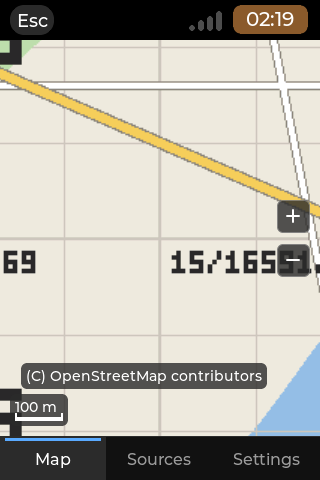
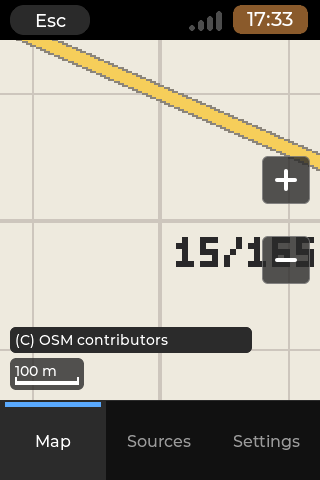
deck-atlas 0.2.0: version, README, board tests, screenshots
Version 0.2.0 in app.json, kVersion (and so the tile User-Agent), test_package and the READMEs. README: the GPS section
(receivers, listen-only, Auto port and speed, the chip, the dot, follow and its keys, the position.state format and path,
privacy), the GPS rows in Settings and the keys table, requirements (dialout), known limits, changes, roadmap. BOARD-TESTS:
a GPS list (puck on a board, cold start, fix, follow, unplug / replug, wrong speed, a port held by another app,
position.state, memory and power, privacy). New synthetic screenshots of the GPS states; the 320x480 map and Settings
shots refreshed. registry.json, registry-amd64.json and packages/ are untouched (publishing follows a board test).

Claude-Session: https://claude.ai/code/session_01DZirtLRRFpxSjax5Qp5ZSW

diff --git a/apps/deck-atlas/tests/test_package.cpp b/apps/deck-atlas/tests/test_package.cpp
@@ -31,7 +31,7 @@ void test_package()
     const std::string hpp = test_read_file(app + "/src/ui/atlas_app.hpp");
     CHECK(has(hpp, "kMinW = 480, kMinH = 320"));
     CHECK(has(hpp, "kPortraitW = 320, kPortraitH = 480"));
-    CHECK(has(hpp, "kVersion = \"0.1.0\""));
+    CHECK(has(hpp, "kVersion = \"0.2.0\""));
     const std::string icon = test_read_file(app + "/root/usr/share/APPLaunch/share/images/deck-atlas.png");
     CHECK(!icon.empty());
     CHECK(icon == test_read_file(app + "/icon.png"));
@@ -41,7 +41,7 @@ void test_package()
     const std::string manifest = test_read_file(app + "/app.json");
     CHECK(has(manifest, "\"share_code\": \"deck-atlas\""));
     CHECK(has(manifest, "\"package\": \"deck-atlas\""));
-    CHECK(has(manifest, "\"version\": \"0.1.0\""));
+    CHECK(has(manifest, "\"version\": \"0.2.0\""));
     CHECK(has(manifest, "\"title\": \"Deck Atlas\""));
     CHECK(has(manifest, "\"license\": \"MIT\""));
     CHECK(has(manifest, "\"arch\": [\"arm64\", \"amd64\"]"));

diff --git a/apps/deck-atlas/src/ui/atlas_app.hpp b/apps/deck-atlas/src/ui/atlas_app.hpp
@@ -50,7 +50,7 @@ namespace atlasui {
 /* = X-MinSize / X-Portrait of root/usr/share/APPLaunch/applications/deck-atlas.desktop (tests/test_package.cpp) */
 constexpr int kMinW = 480, kMinH = 320;
 constexpr int kPortraitW = 320, kPortraitH = 480;
-constexpr const char *kVersion = "0.1.0";
+constexpr const char *kVersion = "0.2.0";
 
 enum class Tab { Map = 0, Sources, Settings };
 enum class Sub { None, FileDetail, Browser, Import, Key, Shown, About };

diff --git a/apps/deck-atlas/README.md b/apps/deck-atlas/README.md
@@ -4,10 +4,11 @@ An offline map viewer for the cyberdeck, by touch or keyboard: import your own m
 `z/x/y` tile folder from a tile downloader, converted on the board into one MBTiles file) from the SD card or a USB
 stick, then pan and zoom without any network. Three online tile sources come with the map engine, all **off** until you
 switch them on (OpenTopoMap, and Thunderforest and Geoapify with your own free key); the tiles you looked at stay on the
-SD card. Version **0.1.0**, category Tools. Native fullscreen app (kind A of
+SD card. Version **0.2.0**, category Tools. Native fullscreen app (kind A of
 the guidelines: it has its own pages, lists and forms) on the launcher's `cp0_lvgl` with its **map engine**
-(`cp0_map.h`, switched on for this app only), MIT. The GPS (a position dot, follow mode, `position.state`) comes in the
-next version; places and tracks after that.
+(`cp0_map.h`, switched on for this app only), MIT. Version 0.2.0 adds the **GPS**: a USB receiver's position as a dot on the map, follow mode and
+`position.state` for other apps (off until you switch it on in Settings; listen-only, and the position never leaves the
+deck). Places and tracks come after that.
 
 ## Screenshots
 
@@ -24,6 +25,19 @@ coastline; generated by `tests/tools/gen_fixture_tiles.py`, no real map data):
 | Settings tab | zero8's 3.5" 480x320 panel (6.3 px/mm: 1.5x) |
 
 The Store shows `screenshots/` (640x480, 480x320, 320x480 and 480x800).
+
+The GPS (0.2.0), over a synthetic feed (an invented position inside the test tiles' area):
+
+| | |
+| --- | --- |
+| ![3D fix](screenshots/12-gps-3d-640x480.png) | ![Searching](screenshots/18-gps-searching-640x480.png) |
+| 3D fix, nine satellites, accuracy ring; follow button under the zoom buttons | Receiver talking, no fix yet: "Searching", no dot |
+| ![Moving](screenshots/13-gps-moving-480x320.png) | ![2D](screenshots/16-gps-2d-480x320.png) |
+| Moving: heading wedge, speed; the follow button left of the zoom-out button on the 200 px high 480x320 map | 2D fix: a wider ring |
+| ![Follow](screenshots/14-gps-follow-320x480.png) | ![Stale](screenshots/15-gps-stale-320x480.png) |
+| Follow on (button highlighted), the dot kept in the middle | Stale (no fix for 5 s): hollow dot, "Last fix 7 s ago" |
+| ![Settings](screenshots/17-settings-gps-320x480.png) | ![Credit](screenshots/19-credit-320x480.png) |
+| Settings > GPS receiver | OpenTopoMap's credit shown whole on 320x480 |
 
 ## What it does
 
@@ -65,13 +79,14 @@ Three tabs, switched by the strip at the bottom (or Tab / Shift+Tab):
 - **Settings.** Units (km / mi), Display scale (Auto / 1x / 1.5x / 2x; Auto shows what it chose), Offline mode (no
   tile request at all), Cache size (Auto / 128 MB / 256 MB / 512 MB / 1 GB: the cap of the saved online tiles; Auto is
   the smaller of 512 MB and 10 % of the free space), Clear saved tiles (asks first; imported files are never touched),
-  the saved tiles now, and About: the version, the attribution of the map shown and of every source, the credits.
+  the saved tiles now, the GPS receiver group (GPS, Port, Speed: see GPS below), and About: the version, the attribution of the map shown and of every source, the credits.
 
 ### Keys and touch
 
 | Function | Keys | Touch |
 | --- | --- | --- |
 | Switch tabs | Tab, Shift+Tab | the tab strip |
+| Follow the GPS position (GPS on) | G (on / off), Home (on, recentre) | the crosshair button under the zoom buttons |
 | Pan | arrows (Shift: half a view); the deck's F / X / Z / C aliases | drag |
 | Zoom in / out | + (=, keypad +) or Page Up / - (keypad -) or Page Down | the + / - buttons, a double tap (in) |
 | Move in a list, open, act | Up / Down, Enter or Right | a tap selects a row, a tap on the selected row acts |
@@ -84,6 +99,43 @@ Three tabs, switched by the strip at the bottom (or Tab / Shift+Tab):
 Every list row carries its marker (the launcher's row rule): a chevron on rows that open a page or change a value,
 a dot on rows that act (Show on map, Remove, Import this tile folder, an archive, Clear saved tiles; blue while the
 clearing runs), none on information rows.
+
+## GPS (0.2.0)
+
+Settings > **GPS receiver** has three rows: **GPS** (Off, the default; Auto), **Port** (Auto, or one of the serial ports
+present, `/dev/ttyACM*` and `/dev/ttyUSB*`, one tap for the next) and **Speed** (Auto, 9600, 4800, 38400, 115200). With
+GPS Off the app opens no port at all and the Map tab is exactly what 0.1.0 drew.
+
+- **Listen-only.** The reader only reads NMEA 0183 sentences (`$GP`, `$GN`, `$GL`, `$GA`... `RMC`, `GGA`, `GSA`, `GSV`). It
+  opens the device read-only and never sends anything (no UBX or NMEA command, nothing to switch on or configure); the
+  package test checks that no source of the reader contains a send call. Every sentence needs a valid `*HH` checksum.
+  (The kernel raises DTR when any program opens a serial port; some microcontroller boards reset on that. Auto skips
+  ports another app holds, and tries a u-blox first; choose the Port yourself if the deck has other serial boards on it.)
+- **Finding the receiver.** Auto looks at the ports every 2 s: a u-blox (USB 1546) first, then ports named like a GPS,
+  then `ttyACM*`, then `ttyUSB*`. A port is the receiver when two valid sentences arrive; Auto speed listens 2.5 s each at the
+  speed that worked last, 9600, 4800, 38400 and 115200. A port that is busy (another app has it), denied or silent is left
+  alone for 2, 4, 8, 15, then 30 s. Plugging in or pulling out is noticed while the app runs; a receiver that goes silent for
+  10 s is found again when it talks. Nothing blocks the screen: the reader runs inside the app's 100 ms timer.
+- **On the map.** With a fix: a filled blue dot with a white outline, a translucent accuracy ring (HDOP x 5 m, 3 to 100 m,
+  drawn when wider than the dot) and, above 1 m/s with a known course, a heading wedge. No valid fix sentence for 5 s: a
+  **hollow** dot, no ring. No fix yet: no dot. The **status chip** under the map's top edge says "No GPS device", "No access
+  to GPS port" (the `dialout` group), "Searching", "2D fix", "3D fix 9 sats" or "Last fix 12 s ago", with the speed
+  ("19 km/h", "12 mph" with miles) when moving.
+- **Follow.** The crosshair button below the zoom buttons (or **G**; **Home** turns it on and recentres): the map keeps the
+  position at its centre on every fix, at the zoom it has. A pan (drag, arrow key, double tap away from the centre) turns
+  it off; zooming does not. The button is highlighted while follow is on. Off by default.
+- **position.state.** While the GPS is on, the app writes the deck's position for other apps to the launcher's state folder
+  (`$APPLAUNCH_STATE_DIR`, else `$XDG_RUNTIME_DIR/applaunch/`, next to `status.state`; report 054 section 6.3), atomically
+  (temporary file, rename), at most once a second, only when it changed. Keys (key=value, unknown keys are ignored, an absent
+  key means unknown): `v=1`, `gen`, `pid` (believe the file only while it is alive), `writer=deck-atlas`, `fix` (0 none, 2 2D,
+  3 3D), `lat`, `lon`, `alt_m`, `speed_mps`, `course_deg`, `acc_m`, `hdop`, `sats_used`, `sats_view`, `utc` (the receiver's
+  time of the fix), `mono_ms` (CLOCK_MONOTONIC at the fix: the age without trusting the wall clock), `source` (`usb:1546:01a8`
+  or `serial:ttyUSB0`). No fix, a lost receiver or a stale fix writes `fix=0` with no position; switching the GPS off or
+  leaving the app removes the file.
+- **Privacy.** The position is never sent anywhere by the app: it is drawn on the screen and written to `position.state` on
+  this deck. The GPS adds no network use; the online sources keep the rules above.
+- **Not in this version:** setting the system clock from the receiver (later, as an offer with a sudo prompt), tracks, a GPS
+  page with the satellites, recording while the app is hidden.
 
 ## Map files: where they come from
 
@@ -103,7 +155,7 @@ import page and the record of each file say so. Deck Atlas never downloads areas
 - The OpenStreetMap Foundation's tile servers are **never** used: there is no OSM source, and the engine refuses any
   `openstreetmap.org` / `osm.org` address, in a record or a redirect.
 - All three sources are off by default. Only the tiles you look at are requested, never the tiles around the view.
-- A request carries the tile's z/x/y and the app's User-Agent `deck-atlas/0.1.0 (+https://github.com/OSRdesign/cyberdeck-zero-apps)`,
+- A request carries the tile's z/x/y and the app's User-Agent `deck-atlas/0.2.0 (+https://github.com/OSRdesign/cyberdeck-zero-apps)`,
   plus your key for a keyed source; nothing else. The provider sees your IP address.
 - Keys are kept by the engine in `~/.local/share/cyberdeckzero/maps/sources/<id>.key`, mode 0600, never logged and
   never shown again (the page says *Key saved*); never in `settings.conf`.
@@ -122,19 +174,21 @@ import page and the record of each file say so. Deck Atlas never downloads areas
   plus the base `libfreetype6, libinput10, libxkbcommon0`.
 - A launcher with fullscreen app support (contract 1); built against launcher `28817a5` (the map engine with its first fixes).
 - Network only for the online sources, and only when you switch one on.
-- No GPS in this version.
+- For the GPS (optional): a USB receiver that sends NMEA 0183 (a u-blox puck, a SiRF or any "GPS mouse"), and your user in
+  the `dialout` group (`sudo usermod -aG dialout $USER`, then log in again) to open `/dev/ttyACM*` / `/dev/ttyUSB*`.
 
 ## Install
 
 Settings > Apps > Available > Deck Atlas (category Tools), or by hand:
-`sudo dpkg -i deck-atlas_0.1.0_arm64.deb` (`_amd64` on an x86-64 PC), then `sudo apt-get -f install` if a dependency is
+`sudo dpkg -i deck-atlas_0.2.0_arm64.deb` (`_amd64` on an x86-64 PC), then `sudo apt-get -f install` if a dependency is
 missing. Remove with `sudo dpkg -r deck-atlas` (your maps and settings stay).
 
 ## Files the app keeps
 
 | Path | What |
 | --- | --- |
-| `~/.config/deck-atlas/settings.conf` | units, display scale, cache size, offline mode, what the map shows, the last view, the sources whose terms you accepted (key=value lines, written atomically, mode 0600) |
+| `~/.config/deck-atlas/settings.conf` | units, display scale, cache size, offline mode, what the map shows, the last view, the sources whose terms you accepted, the GPS rows (only when changed from Off / Auto / Auto) (key=value lines, written atomically, mode 0600) |
+| `$APPLAUNCH_STATE_DIR/position.state` | the deck's position for other apps, while the GPS is on (above); removed at exit |
 | `~/.local/share/cyberdeckzero/maps/` | the shared map store of the engine (any app may read it; Mesh Hop will): `archives/` (imported files and their records), `tiles/` (the saved online tiles, one MBTiles per source, within the cache cap), `sources/` (your switches and keys), `state/` (daily counts and pauses) |
 
 Reset: delete `~/.config/deck-atlas` (settings) and `~/.local/share/cyberdeckzero/maps` (every map, key and saved tile).
@@ -142,7 +196,8 @@ Reset: delete `~/.config/deck-atlas` (settings) and `~/.local/share/cyberdeckzer
 ## Multitasking
 
 None (no `X-Background`): this version does not answer the launcher's lifecycle protocol, so it owns the panel until it
-exits. The next version (the GPS reader and `position.state`) is planned with `X-Background=run` (report 054 7.4).
+exits. So the GPS reader and `position.state` work only while Deck Atlas is in front; `X-Background=run` (report 054 7.4)
+comes with the recording of tracks.
 
 ## Known limits
 
@@ -156,7 +211,7 @@ exits. The next version (the GPS reader and `position.state`) is planned with `X
   length, and 2x is the engine's largest scale (the one over-zoom level magnifies further, blurred). Keep Auto; zoom
   15 is the first level with street names, 16-17 for house numbers. Sharper text on the deck needs 512 px ("@2x")
   tiles in the imported file (the engine draws them 1:1 at 2x) or the vector rendering of a later phase.
-- No GPS, places or tracks yet; no area download (the engine's phase 0.2, Geoapify only).
+- No places or tracks yet; no area download (the engine's phase 0.2, Geoapify only).
 - One source on the map at a time (all files, one file, or one online source); no overlay of an online source over a
   file.
 - Vector tiles (pbf), WebP and brotli / zstd PMTiles directories are refused (raster first).
@@ -202,7 +257,7 @@ The binary links the cp0_lvgl runtime of the CardputerZero launcher by M5Stack (
 ## Build and test
 
 ```sh
-wsl -e sh apps/deck-atlas/build.sh host                 # unit tests (399 checks) and 12 scenes (sheets in ~/cdk-build/deck-atlas/host/out/sheets)
+wsl -e sh apps/deck-atlas/build.sh host                 # unit tests (1,912 checks) and 22 scenes (sheets in ~/cdk-build/deck-atlas/host/out/sheets)
 wsl -e sh apps/deck-atlas/build.sh cross                # the arm64 binary into root/
 wsl -e sh apps/deck-atlas/build.sh cross --arch amd64   # the amd64 binary into root.amd64/
 python3 tools/make_registry.py --only deck-atlas --out <dir>            # a local arm64 .deb, no registry
@@ -212,6 +267,10 @@ python3 tools/make_registry.py --only deck-atlas --arch amd64 --out <dir>
 - **The map engine for this app only.** `cp0_config.mk` holds `CONFIG_CP0_LVGL_MAP=y`; `apps/_common/build_app.sh`
   appends it to this app's scratch configuration and `apps/_common/headless/Makefile` includes it (the
   [`_common` README](../_common/README.md#toolkit-switches-of-one-app-cp0_configmk)); no other app changes.
+- **GPS in the scenes.** `DECKATLAS_GPS=auto|off` switches the GPS on or off; `DECKATLAS_GPS_FEED=<name>` plays
+  `tests/gps-feeds/<name>.nmea` through a fake port (demonstration mode only; without it there is no device). The feeds
+  (searching, fix2d, fix3d, moving, follow, stale, noise) are made at build time by `tests/tools/gen_nmea.py` around an
+  invented point in the fixture tiles' area, with valid checksums; no recording, never packaged or committed.
 - **Demonstration mode** (the scenes; never on a board): `DECKATLAS_DEMO=1` keeps the settings and the store under the
   harness's runtime folder, converts the generated `tests/fixtures/tiles` with the engine's own import at the start, and forces the
   network off. `DECKATLAS_DEMO=empty` starts with nothing; `DECKATLAS_DEMO=import-hold` replaces the import with a
@@ -231,13 +290,18 @@ python3 tools/make_registry.py --only deck-atlas --arch amd64 --out <dir>
 
 ## Changes
 
+- **0.2.0** (2026-11-07): the GPS reader (NMEA 0183, listen-only, Auto port and speed, hot-plug), the position dot with
+  its accuracy ring, heading wedge and hollow stale state, the status chip, follow mode (button below the zoom buttons,
+  G / Home keys, a pan turns it off), Settings > GPS receiver (GPS, Port, Speed), `position.state` for other apps; the map
+  credit is shown whole on narrow screens (abbreviated, wrapped) instead of being cut with "...".
+
 - **0.1.0** (2026-11-07): first version. Map, Sources and Settings tabs; MBTiles, PMTiles and tile-folder
   imports with progress and cancel; the engine's three online sources off by default, with the key page and the terms
   dialog; the persistent viewing cache with its cap and clearing; offline mode; 480x320 and up, 320x480 in PDA mode.
 
 ## Roadmap
 
-1. **GPS** (next): the receiver on USB, the position dot (the widget's `cp0_map_set_position()` is wired and kept empty
-   in this version), follow mode, `position.state` for other apps, `X-Background=run`.
+1. **GPS, next steps**: set the system clock from the receiver (an offer with a sudo prompt, never automatic), the GPS page
+   (satellites in view, DOP, the receiver's name), `X-Background=run` for recording.
 2. Places and tracks (record, list, show, GPX export); the area download (Geoapify).
 3. Mesh Hop shows its nodes on the same engine and store (read-only, report 054 6.2).

diff --git a/apps/deck-atlas/tests/BOARD-TESTS.md b/apps/deck-atlas/tests/BOARD-TESTS.md
@@ -2,12 +2,12 @@
 
 For the owner (controller-led testing: Claude deploys and reads the logs, you do the physical steps). The models
 (settings, labels, the import progress, the online sources' flow, the file browser, the map geometry, the package files)
-are tested on the PC (`build.sh host`: 399 checks), and twelve scenes draw every page at 640x480, 480x320, 320x480 and
+are tested on the PC (`build.sh host`: 1,912 checks), and 22 scenes draw every page at 640x480, 480x320, 320x480 and
 480x800 (plus the zero8 density). What the PC cannot tell: **whether the map is readable on the glass**, how a real
 import feels on a Zero 2 W's SD card, the memory use, and the network path. Keep it short: the main path must work.
 
 Boards: the deck (640x480, 11.3 px/mm), zero8 (480x320 3.5", 6.3 px/mm; 320x480 with PDA mode on), and the FZ-M1 tablet
-for the amd64 package. Install the `.deb` from the bundle (`sudo dpkg -i deck-atlas_0.1.0_arm64.deb`); it pulls
+for the amd64 package. Install the `.deb` from the bundle (`sudo dpkg -i deck-atlas_0.2.0_arm64.deb`); it pulls
 `libsqlite3-0`, `libcurl4t64` and `ca-certificates`.
 
 Before: copy the tile folder (MapTileDl's `tiles`, about 276 MB) to the board, e.g. `scp -r tiles deck@zero7.local:Maps/`,
@@ -18,7 +18,7 @@ or put it on a USB stick.
 1. Open Deck Atlas from the home grid. The launcher's header (Esc, title "Deck Atlas", status strip), the tab strip at
    the bottom (Map, Sources, Settings, Map underlined in blue). With an empty store: a grey world grid and the plate
    "No map yet. Import a map file in Sources."
-2. Log: `journalctl --user -u <launcher service> | grep deck-atlas` shows `[deck-atlas] 0.1.0 640x480 scale Auto (2x),
+2. Log: `journalctl --user -u <launcher service> | grep deck-atlas` shows `[deck-atlas] 0.2.0 640x480 scale Auto (2x),
    store /home/<user>/.local/share/cyberdeckzero/maps, 0 map files, network on`.
 
 ## T1. Import the tile folder (3 min, the deck first, then zero8)
@@ -64,11 +64,47 @@ At arm's length, at zoom 15 and zoom 17:
 4. Started over ssh without the launcher (`/usr/share/APPLaunch/bin/deck-atlas` on the console of the deck): the app
    comes up and logs one line about the missing contract.
 
-## T5. What to tell me
+## T5. GPS (0.2.0; 15 minutes, outdoors or at a window, the u-blox puck on the deck and then on zero8)
+
+The PC tests cover the parser, the fix logic, the baud sniff on a fake port and on a pseudo-terminal, follow mode and the
+`position.state` writer, and eight scenes draw every state at 640x480, 480x320 and 320x480. What only a board can tell: the
+real puck, the cold start, power, memory.
+
+1. **Off is quiet.** GPS Off (the default): the Map tab has no chip and no follow button; `ls -l /proc/$(pgrep -x deck-atlas)/fd`
+   shows no `/dev/tty*`. Settings > GPS receiver shows GPS Off, Port Auto, Speed Auto.
+2. **Plug the puck, GPS Auto** (Settings > GPS receiver > GPS). `lsusb` and `ls /dev/ttyACM* /dev/ttyUSB*`: note which node it
+   is and the USB id (u-blox 1546:01a7/01a8/01a9). If the chip says "No access to GPS port": `groups` must list `dialout`
+   (`sudo usermod -aG dialout $USER`, log in again). The log (`[deck-atlas] gps: ...`) says which port and speed it locked at.
+3. **Cold start.** Put the puck where it sees the sky. Note the time from plugging to "Searching", then "2D fix"/"3D fix N
+   sats" (a cold start takes minutes; the chip must say "Searching" meanwhile, and no dot appears before a fix).
+4. **The dot.** With the fix: the blue dot with its white outline and the accuracy ring at the right place; walk or drive: the
+   heading wedge and the speed in the chip (km/h; mph with Units mi). Cover the puck or unplug its antenna side: after 5 s the dot
+   is hollow and the chip says "Last fix N s ago".
+5. **Follow.** Tap the crosshair button under the zoom buttons (or press G): the map recentres at once and keeps the dot in the
+   middle while you move; zoom with the buttons: follow stays; drag the map: follow goes off (the button loses its highlight);
+   tap it again: it recentres. Home does the same. Check on the deck and on zero8 that the button is below the zoom buttons, the
+   same size, and clear of the map credit and the scale bar (also at 320x480 with PDA mode on).
+6. **Unplug and replug** while the app runs: "No GPS device" within a few seconds, no dot, no crash; plug it back: it finds the
+   receiver again within about 2 s (same node or another number) and the fix returns. Repeat three times quickly.
+7. **Wrong speed.** Settings > Speed 4800 with the puck at 9600: "Searching" for ever (nothing locks, no garbage position);
+   back to Auto: it locks at 9600. The log shows the speeds tried.
+8. **Another app on the port.** Open Serial Console or Mesh Hop on the same node first: Deck Atlas says "Searching" (the port is
+   held; no error, no crash) and takes it when the other app lets go (within the 30 s backoff).
+9. **position.state.** While there is a fix: `cat $APPLAUNCH_STATE_DIR/position.state` (else
+   `cat $XDG_RUNTIME_DIR/applaunch/position.state`): `fix=3`, `lat`, `lon`, `alt_m`, `utc` (the receiver's time), `mono_ms`, `pid`
+   equal to `pgrep -x deck-atlas`. `watch -n1 cat ...` changes about once a second, never twice a second. Unplug: `fix=0` and no
+   position. GPS Off or leaving the app: the file is gone (`ls`).
+10. **Memory and power.** `grep VmRSS /proc/$(pgrep -x deck-atlas)/status` with a fix and the map moving (no more than a few
+    MB above T4); with Wi-Fi tile fetching on, the deck does not reset (a powered hub if it does; note the board).
+11. **Privacy.** `ss -tnp | grep deck-atlas` shows only the tile source's connections (none with Offline mode on), never anything
+    about the position.
+
+## T6. What to tell me
 
 - The import rate and the time for the 10,326 tiles on the deck; anything slow while it ran.
 - The legibility answers (T2) per board and scale.
-- VmRSS on the deck.
+- VmRSS on the deck, with and without a GPS fix (T5.10).
+- The GPS: time to a cold fix, the puck's node and USB id, whether it locked at 9600, anything odd on unplug / replug.
 - Anything cut, overlapping or hard to hit: the zoom buttons, the tab strip, the rows; the attribution line at the
   bottom right of the map.
 - Cleanup: `sudo dpkg -r deck-atlas` (the maps stay in `~/.local/share/cyberdeckzero/maps`; delete that folder to reset).

diff --git a/README.md b/README.md
@@ -27,7 +27,7 @@ Each app has its own page with the full description, keys, requirements, known l
 
 | App | Version | Packages | What it does |
 | --- | --- | --- | --- |
-| [**Deck Atlas**](apps/deck-atlas/README.md) (`deck-atlas`) | 0.1.0 | arm64, amd64 | Offline maps, by touch or keyboard: import your own MBTiles or PMTiles files, or a z/x/y tile folder from a tile downloader (converted on the board), from the SD card or a USB stick, then pan and zoom without any network. Three online tile sources (OpenTopoMap, and Thunderforest and Geoapify with your own key) stay off until you switch one on and accept its terms; the tiles you viewed are kept on the SD card. The OpenStreetMap Foundation's tile servers are never used. From 480x320 up, portrait (PDA mode) layout at 320x480. No GPS yet. Category Tools. |
+| [**Deck Atlas**](apps/deck-atlas/README.md) (`deck-atlas`) | 0.2.0 | arm64, amd64 | Offline maps, by touch or keyboard: import your own MBTiles or PMTiles files, or a z/x/y tile folder from a tile downloader (converted on the board), from the SD card or a USB stick, then pan and zoom without any network. Three online tile sources (OpenTopoMap, and Thunderforest and Geoapify with your own key) stay off until you switch one on and accept its terms; the tiles you viewed are kept on the SD card. The OpenStreetMap Foundation's tile servers are never used. From 480x320 up, portrait (PDA mode) layout at 320x480. An optional USB GPS (NMEA, listen-only; off until you switch it on) shows your position, with follow mode, and writes `position.state` for other apps; the position never leaves the deck. Category Tools. |
 | [**Home Assistant**](apps/home-assistant/README.md) (`home-assistant`) | 0.3.0 | arm64, amd64 | A client of your own Home Assistant server on the local network, signed in by scanning a QR code with a phone: your stored dashboard drawn natively (entities, sensor and weather cards), then tiles for your favourites and each area, with Home Assistant's icons and state colours; switch a light, run a scene, locks and garage doors ask first. By touch or keyboard, from 480x320 up, portrait (PDA mode) layout. Needs the Home Assistant server. Category Home. Not affiliated with the Home Assistant project. |
 | [**Klondike Solitaire**](apps/klondike-solitaire/README.md) (`klondike-solitaire`) | 0.1.1 | arm64, amd64 | The classic patience game, by touch or keyboard: draw one or three, Standard, Vegas or no scoring, unlimited undo and redo, hints, deals that are the same on every board and winnable deals proven by a built-in solver, statistics, the win cascade, portrait (PDA mode) and left-handed layouts. Category Games, no network. |
 | [**Mine Field**](apps/mine-field/README.md) (`mine-field`) | 0.1.1 | arm64, amd64 | A mine-clearing puzzle, by touch or keyboard: three levels whose boards are derived from the screen and always fit it (no pan, no scroll), fair boards that never need a guess, hints, long press to flag, chord, best five times, statistics, the game in progress kept, portrait (PDA mode) layout. Category Games, no network. |

diff --git a/apps/deck-atlas/tests/fixtures/README.md b/apps/deck-atlas/tests/fixtures/README.md
@@ -11,4 +11,7 @@ The demonstration mode of the app (`DECKATLAS_DEMO=1`, the headless scenes) conv
 import into the demonstration store, and the file browser scenes open it. `broken.mbtiles` is a one-line text file
 ("not an MBTiles file"), for the import error page.
 
+The GPS scenes play synthetic NMEA feeds (`tests/gps-feeds`, written at build time by `tests/tools/gen_nmea.py` from an
+invented point inside the tile area above, valid checksums; not in the repository, no recording of anyone's position).
+
 To look at real tiles, set `DECKATLAS_TILES` (see `tests/real/run.sh`): the folder is only read, never copied here.
